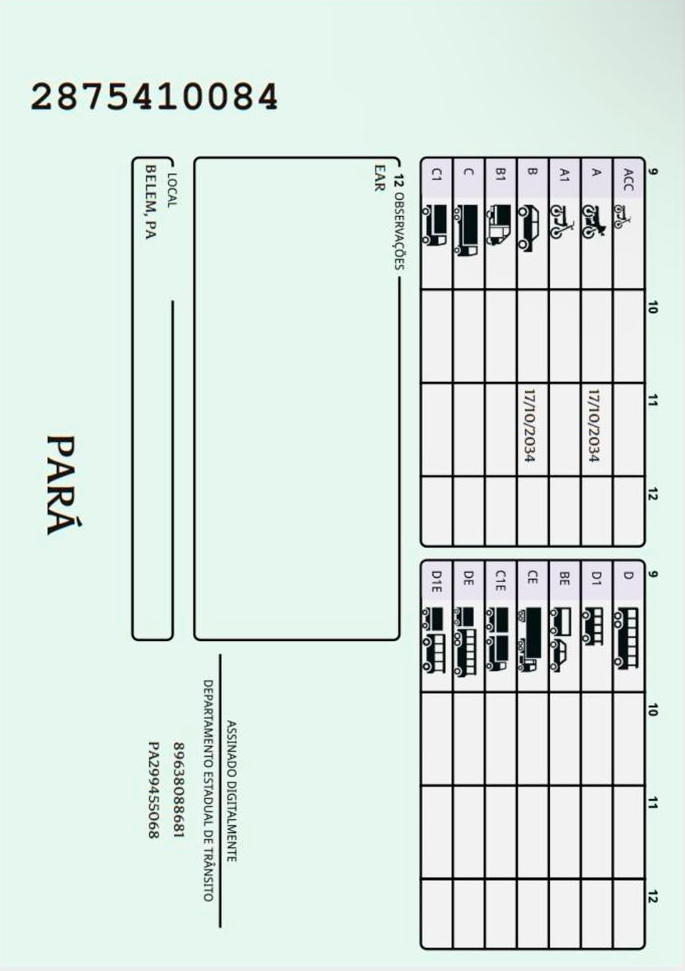
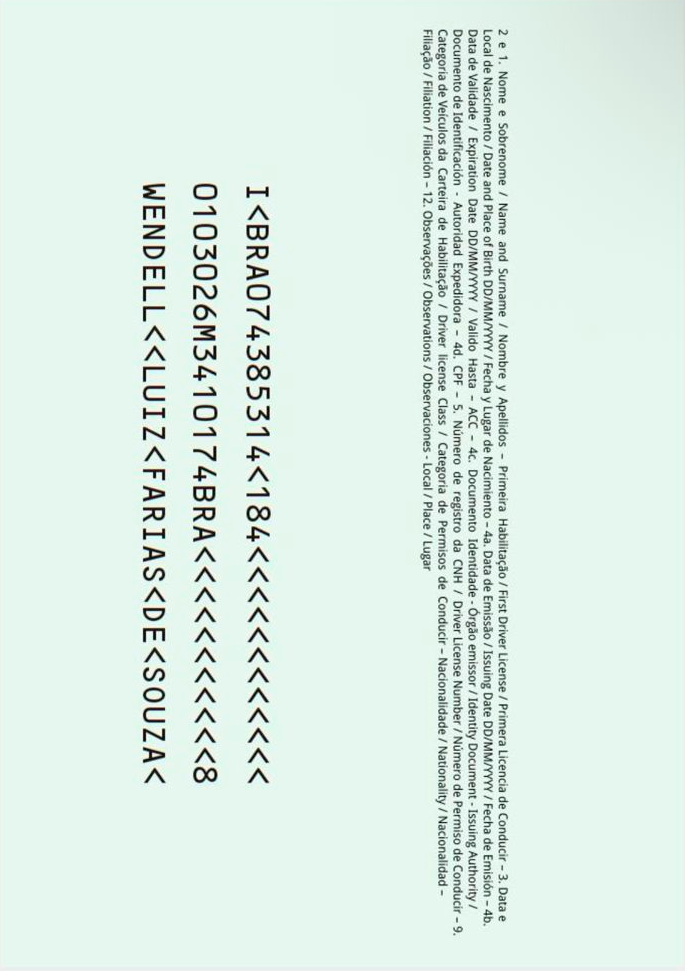
5

Changed region(s): [[0.1839, 0.0309, 0.981, 0.9887], [0.0307, 0.0618, 0.3985, 0.1236], [0.0613, 0.4325, 0.1226, 0.5561]]

diff --git a/Condutor.html b/Condutor.html
@@ -218,12 +218,12 @@ body {
 
         <div class="info-item">
           <label>Data de Emissão</label>
-          <p>21/10/2025</p>
+          <p>08/09/2025</p>
         </div>
 
         <div class="info-item">
           <label>Data de Validade</label>
-          <p>17/10/2035</p>
+          <p>06/09/2026</p>
         </div>
       </div>
     </div>
